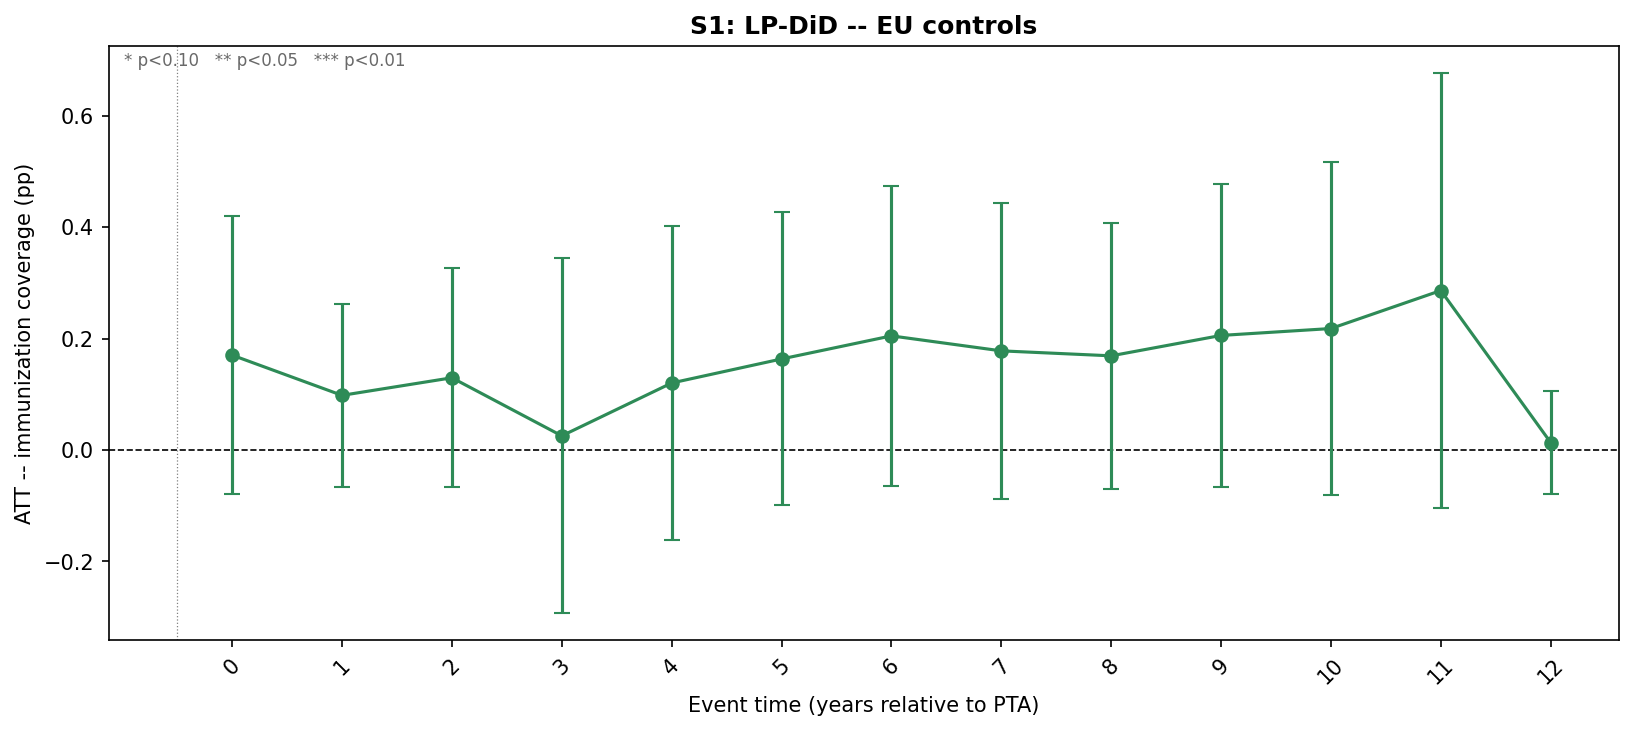
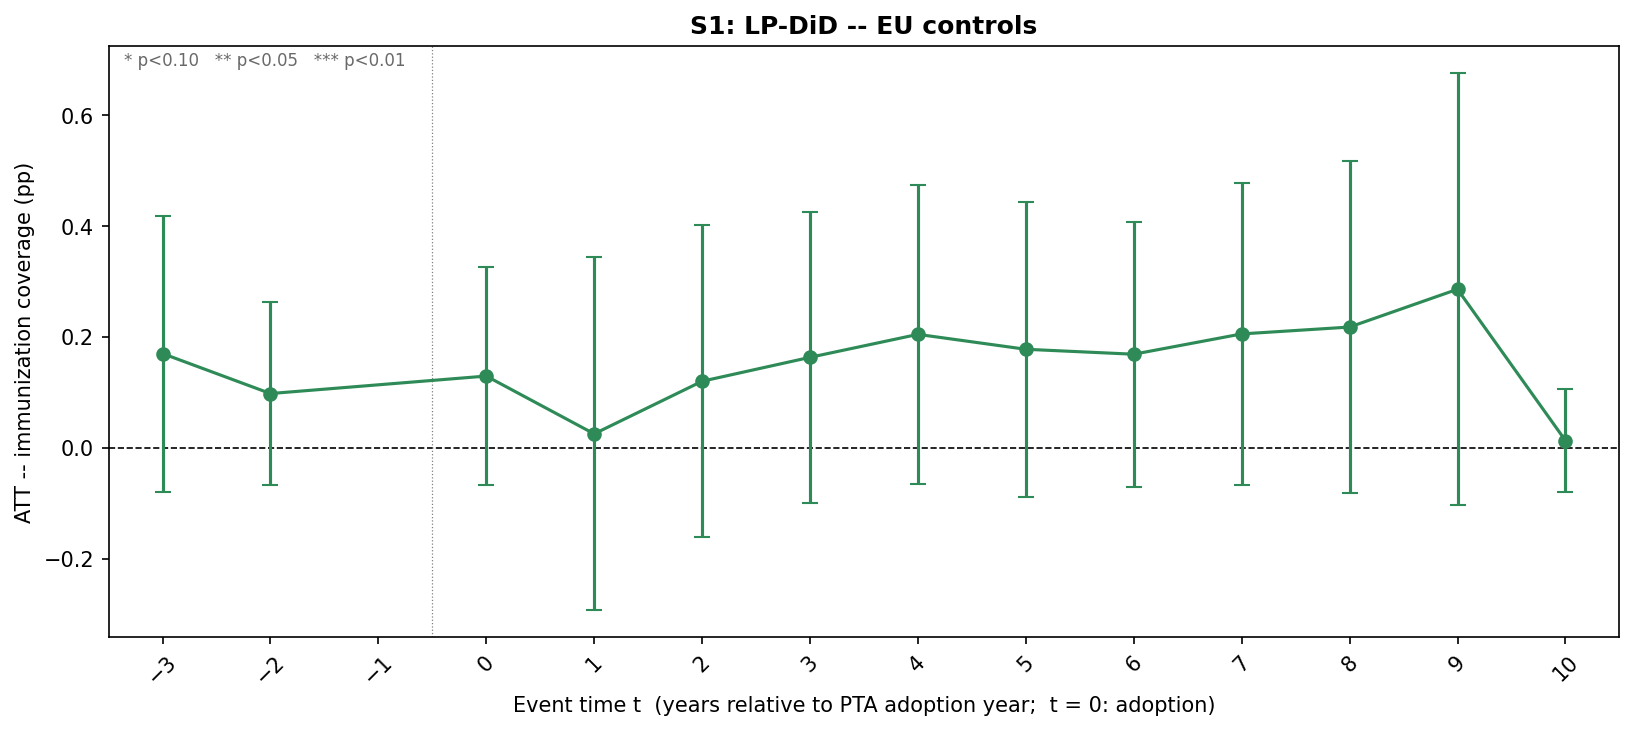
Update event study plots with correct axis range (-3 to 10) and fix _event_times for S&A and LP-DiD
- Fix _event_times() to correctly extract event times from numeric index (S&A) and string index (LP-DiD)
- Enforce xlim from t=-3 to t=10 with 0.5 padding in plot_single_es
- Show all integer ticks in window for LP-DiD plots
- Update x-axis label: 'Event time t (years relative to PTA adoption year; t=0: adoption)'
- Add updated/new event study PNGs for both scenarios and cross-scenario overlay

diff --git a/src/modelling_baseline_and_scenario.py b/src/modelling_baseline_and_scenario.py
@@ -258,6 +258,13 @@ def _event_times(tidy_df):
         extracted = tidy_df['term'].str.extract(r'(-?\d+)$')[0]
         if extracted.notna().all():
             return extracted.astype(int).values
+    # S&A aggregate(): event times stored as floats in the index (index.name == 'period')
+    if pd.api.types.is_numeric_dtype(tidy_df.index):
+        return tidy_df.index.astype(float).astype(int).values
+    # LP-DiD: term stored as string in index (e.g. 'time_to_treatment::-3')
+    extracted = pd.Series(tidy_df.index.astype(str)).str.extract(r'(-?\d+)$')[0]
+    if extracted.notna().all():
+        return extracted.astype(int).values
     return np.arange(len(tidy_df))
 
 
@@ -293,12 +300,17 @@ def plot_single_es(tidy_df, title, color, filename, star_offset=None, xticklabel
 
     ax.text(0.01, 0.99, '* p<0.10   ** p<0.05   *** p<0.01',
             transform=ax.transAxes, fontsize=8, va='top', color='dimgrey')
-    ax.set_xticks(times)
     if xticklabels is not None and len(xticklabels) == len(times):
+        # S&A: positional x-axis with custom labels (-3…-2, 0…10, skipping -1)
+        ax.set_xticks(times)
         ax.set_xticklabels(xticklabels, rotation=45, ha='right')
     else:
+        # LP-DiD: actual event-time axis — show every integer tick in the window
+        full_ticks = np.arange(int(times.min()), int(times.max()) + 1)
+        ax.set_xticks(full_ticks)
         ax.tick_params(axis='x', rotation=45)
-    ax.set_xlabel('Event time (years relative to PTA)')
+    ax.set_xlim(times.min() - 0.5, times.max() + 0.5)
+    ax.set_xlabel('Event time t  (years relative to PTA adoption year;  t = 0: adoption)')
     ax.set_ylabel('ATT -- immunization coverage (pp)')
     ax.set_title(title, fontsize=12, fontweight='bold')
     plt.tight_layout()
